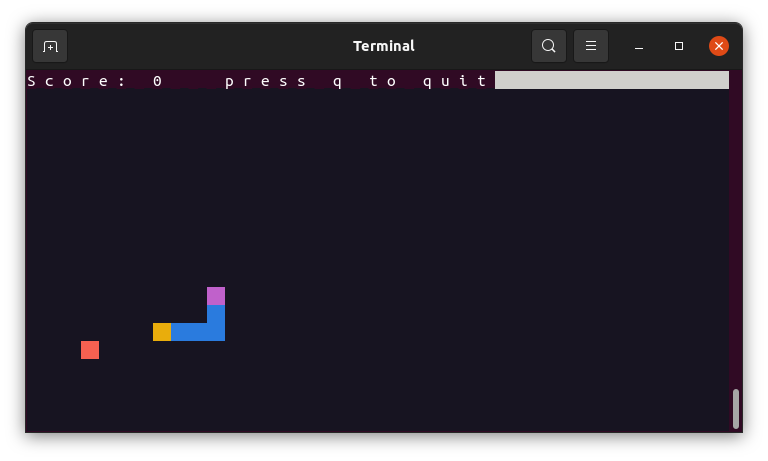
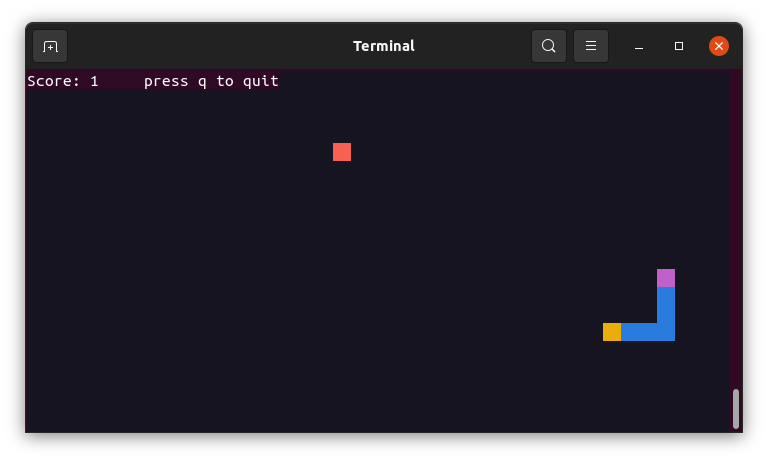
Refactored

diff --git a/src/canvas.rs b/src/canvas.rs
@@ -3,39 +3,54 @@ use super::point::Point;
 use crossterm::cursor;
 use crossterm::style::{self, Colorize};
 use crossterm::QueueableCommand;
-use std::collections::hash_set::HashSet;
-use std::io::{stdout, Stdout, Write};
+use std::io::Stdout;
 
 pub struct Canvas {
+    offset_x: u16,
+    offset_y: u16,
     pub width: u16,
     pub height: u16,
-    pub data: Vec<Element>,
-    pub prev: Vec<Element>,
+    horizontal_mult: u16,
+    data: Vec<Element>,
+    prev_data: Vec<Element>,
 }
 
 impl Canvas {
-    pub fn new(width: u16, height: u16) -> Self {
+    pub fn new(
+        offset_x: u16,
+        offset_y: u16,
+        width: u16,
+        height: u16,
+        horizontal_mult: u16,
+    ) -> Self {
         let mut data = Vec::new();
-        let mut prev = Vec::new();
-        (0..(width * height)).for_each(|_| {
-            data.push(Element::Empty);
-            prev.push(Element::Invalid);
+        let mut prev_data = Vec::new();
+        (0..width).for_each(|_| {
+            (0..height).for_each(|_| {
+                data.push(Element::Empty);
+                prev_data.push(Element::Invalid);
+            });
         });
         Canvas {
+            offset_x,
+            offset_y,
             width,
             height,
+            horizontal_mult,
             data,
-            prev,
+            prev_data,
         }
     }
     pub fn get(&self, x: u16, y: u16) -> Element {
         return self.data[(x * self.height + y) as usize];
     }
-    pub fn get_prev(&self, x: u16, y: u16) -> Element {
-        return self.prev[(x * self.height + y) as usize];
+    fn get_prev(&self, x: u16, y: u16) -> Element {
+        return self.prev_data[(x * self.height + y) as usize];
     }
     pub fn set(&mut self, x: u16, y: u16, e: Element) {
-        self.data[(x * self.height + y) as usize] = e;
+        if self.data[(x * self.height + y) as usize] != e {
+            self.data[(x * self.height + y) as usize] = e;
+        }
     }
     pub fn clear(&mut self) {
         for x in 0..self.width {
@@ -44,18 +59,18 @@ impl Canvas {
             }
         }
     }
-    pub fn save_to_prev(&mut self) {
-        self.prev = self.data.clone();
+    fn save_to_prev(&mut self) {
+        self.prev_data = self.data.clone();
     }
-    pub fn diff_to_prev(&self) -> Vec<Point> {
+    fn diff_to_prev(&self) -> Vec<Point> {
         let mut v = Vec::new();
-        for x in 0..self.width {
-            for y in 0..self.height {
+        (0..self.width).for_each(|x| {
+            (0..self.height).for_each(|y| {
                 if self.get(x, y) != self.get_prev(x, y) {
                     v.push(Point::new(x, y));
                 }
-            }
-        }
+            })
+        });
         v
     }
     fn draw_element(e: Element) -> style::PrintStyledContent<String> {
@@ -66,34 +81,27 @@ impl Canvas {
             Element::Apple => style::PrintStyledContent(String::from("█").red()),
             Element::Empty => style::PrintStyledContent(String::from("█").black()),
             Element::Character(c) => style::PrintStyledContent(c.to_string().white()),
-            Element::Header => style::PrintStyledContent(String::from("█").grey()),
-            Element::Invalid => panic!("Invalid character"),
+            Element::Invalid => panic!("Invalid element"),
         }
     }
-    pub fn draw(&mut self, stdout: &mut Stdout) {
-        let v = self.diff_to_prev();
-        for Point { x, y } in v {
-            let element = self.get(x, y);
+    pub fn draw(&mut self, stdout: &mut Stdout) -> i32 {
+        let mut count = 0;
+        for Point { x, y } in self.diff_to_prev().iter() {
+            count = count + 1;
+            let element = self.get(*x, *y);
             let styled_element = Canvas::draw_element(element);
-            stdout
-                .queue(cursor::MoveTo(x * 2, y))
-                .expect("Can not move")
-                .queue(&styled_element)
-                .expect("Can not draw");
-            if let Element::Character(_) = element {
+            for h in 0..self.horizontal_mult {
                 stdout
-                    .queue(cursor::MoveTo(x * 2 + 1, y))
+                    .queue(cursor::MoveTo(
+                        self.offset_x + x * self.horizontal_mult + h,
+                        self.offset_y + *y,
+                    ))
                     .expect("Can not move")
-                    .queue(style::PrintStyledContent(String::from("_").black()))
-                    .expect("Can not draw");
-            } else {
-                stdout
-                    .queue(cursor::MoveTo(x * 2 + 1, y))
-                    .expect("Can not move")
-                    .queue(styled_element)
+                    .queue(&styled_element)
                     .expect("Can not draw");
             }
         }
         self.save_to_prev();
+        count
     }
 }

diff --git a/src/game.rs b/src/game.rs
@@ -3,16 +3,10 @@ use super::direction::Direction;
 use super::element::Element;
 use super::point::add;
 use super::point::Point;
+use crossterm::event::read;
+use crossterm::{cursor, terminal, QueueableCommand};
 use std::collections::VecDeque;
 use std::convert::TryInto;
-
-extern crate crossterm;
-use crossterm::event::{read, Event, KeyCode, KeyEvent, KeyModifiers};
-use crossterm::{
-    cursor,
-    style::{self, Color, Colorize, Print, SetBackgroundColor, SetForegroundColor},
-    terminal, QueueableCommand, Result,
-};
 use std::io::{stdout, Write};
 use std::thread;
 use std::time::Duration;
@@ -22,20 +16,22 @@ pub struct Game {
     direction: Direction,
     speed: u16,
     apple: Point,
-    can: Canvas,
+    game_canvas: Canvas,
+    header_canvas: Canvas,
     stdout: std::io::Stdout,
     game_width: u16,
     game_height: u16,
     score: u16,
 }
+const HEADER_HEIGHT: u16 = 1;
+
 impl Game {
     pub fn new() -> Self {
         let (width, height) = terminal::size().unwrap();
-        let game_height = height - 1;
+        let game_height = height - HEADER_HEIGHT;
         let game_width = width / 2;
-        let can = Canvas::new(game_width, height);
-        drop(width);
-        drop(height);
+        let game_canvas = Canvas::new(0, HEADER_HEIGHT, game_width, game_height, 2);
+        let header_canvas = Canvas::new(0, 0, width, HEADER_HEIGHT, 1);
         let stdout = stdout();
         let mut snake = VecDeque::new();
         let delta = Direction::Down.delta();
@@ -49,7 +45,8 @@ impl Game {
             direction: Direction::Up,
             speed: 5u16,
             apple: Game::random_point_init(game_width, game_height),
-            can,
+            game_canvas,
+            header_canvas,
             stdout,
             game_width,
             game_height,
@@ -57,36 +54,41 @@ impl Game {
         }
     }
     fn clear(&mut self) {
-        self.can.clear();
-        self.can.draw(&mut self.stdout);
+        self.game_canvas.clear();
+        self.game_canvas.draw(&mut self.stdout);
+        self.header_canvas.clear();
+        self.header_canvas.draw(&mut self.stdout);
         self.stdout.flush().expect("stdout flush error");
     }
     fn draw(&mut self) {
-        self.can.clear();
-        for i in 0..self.game_width {
-            self.can.set(i, 0, Element::Header);
+        // game
+        self.game_canvas.clear();
+        for Point { x, y } in self.snake.iter() {
+            self.game_canvas.set(*x, *y, Element::SnakeBody);
         }
-        let score_string = format!("Score: {}   press q to quit", self.score);
+        self.game_canvas
+            .set(self.apple.x, self.apple.y, Element::Apple);
+        self.game_canvas
+            .set(self.head().x, self.head().y, Element::SnakeHead);
+        self.game_canvas
+            .set(self.tail().x, self.tail().y, Element::SnakeTail);
+        let _count = self.game_canvas.draw(&mut self.stdout);
+        // header
+        self.header_canvas.clear();
+        let score_string = format!("Score: {}     press q to quit", self.score);
         for (i, c) in score_string.chars().enumerate() {
-            self.can
+            self.header_canvas
                 .set(i.try_into().expect("x"), 0, Element::Character(c));
         }
-        for Point { x, y } in self.snake.iter() {
-            self.can.set(*x, *y + 1, Element::SnakeBody);
-        }
-        self.can.set(self.apple.x, self.apple.y + 1, Element::Apple);
-        self.can
-            .set(self.head().x, self.head().y + 1, Element::SnakeHead);
-        self.can
-            .set(self.tail().x, self.tail().y + 1, Element::SnakeTail);
-        self.can.draw(&mut self.stdout);
+        self.header_canvas.draw(&mut self.stdout);
+        // flush
         self.stdout.flush().expect("stdout flush error");
     }
-    fn head(&self) -> Point {
-        self.snake[0]
+    fn head(&self) -> &Point {
+        self.snake.front().expect("There is no snake")
     }
-    fn tail(&self) -> Point {
-        self.snake[self.snake.len() - 1]
+    fn tail(&self) -> &Point {
+        self.snake.back().expect("There is no snake")
     }
     fn random_point_init(width: u16, height: u16) -> Point {
         Point::new(

diff --git a/src/point.rs b/src/point.rs
@@ -1,5 +1,4 @@
-use std::ops::Add;
-#[derive(Debug, Copy, Clone, PartialEq)]
+#[derive(Debug, Copy, Clone, PartialEq, Eq, Hash)]
 pub struct Point {
     pub x: u16,
     pub y: u16,
@@ -22,15 +21,6 @@ impl Vector {
     }
 }
 
-impl Add<Vector> for Point {
-    type Output = Point;
-    fn add(self, other: Vector) -> Self {
-        Self {
-            x: (self.x as i32 + other.x as i32) as u16,
-            y: (self.y as i32 + other.y as i32) as u16,
-        }
-    }
-}
 use std::convert::TryFrom;
 pub fn add(p: &Point, v: &Vector, max_x: u16, max_y: u16) -> Point {
     let mut px = i32::from(p.x);
@@ -50,16 +40,4 @@ pub fn add(p: &Point, v: &Vector, max_x: u16, max_y: u16) -> Point {
     let pxx = u16::try_from(px).expect("impossible");
     let pyy = u16::try_from(py).expect("impossible");
     Point::new(pxx, pyy)
-}
-
-#[cfg(test)]
-mod tests {
-    use super::*;
-    #[test]
-    fn point_vector_addition() {
-        let p = Point::new(15, 16);
-        let v = Vector::new(-1, 1);
-        let q = p + v;
-        assert_eq!(q, Point::new(14, 17));
-    }
 }

diff --git a/src/direction.rs b/src/direction.rs
@@ -22,8 +22,6 @@ mod test {
     use super::*;
     #[test]
     fn test_direction() {
-        let dir = Direction::Right;
-        eprintln!("{:?} {:?}", dir, dir.delta());
-        assert_eq!(dir.delta(), Vector::new(1, 0));
+        assert_eq!(Direction::Right.delta(), Vector::new(1, 0));
     }
 }

diff --git a/src/element.rs b/src/element.rs
@@ -6,6 +6,5 @@ pub enum Element {
     Apple,
     Empty,
     Character(char),
-    Header,
     Invalid,
 }
